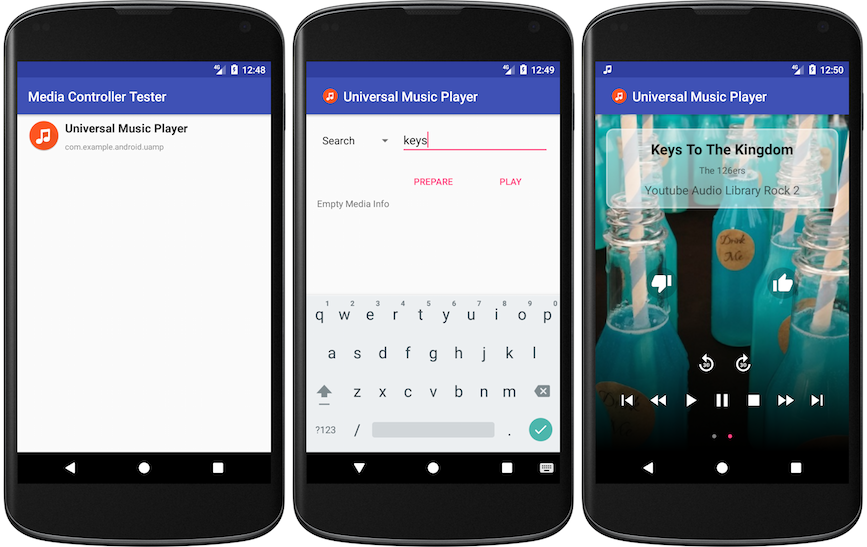
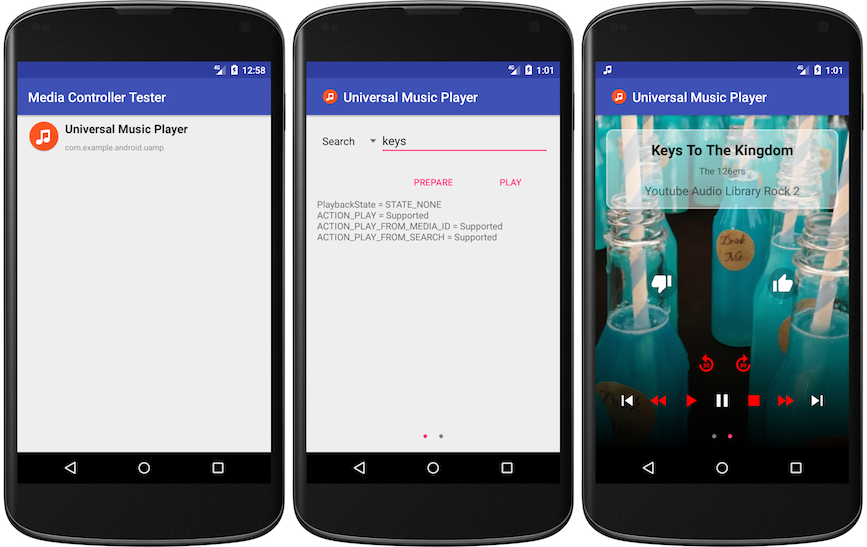
Add support for 'supported actions'.
The app now displays a list of prepare/play actions that are declared as
supported by the connected MediaSession, and colors the various controls
red when they corrospond to an action that's not declared as being
supported by the MediaSession.

diff --git a/mediacontroller/src/main/java/com/example/android/mediacontroller/MediaAppControllerActivity.java b/mediacontroller/src/main/java/com/example/android/mediacontroller/MediaAppControllerActivity.java
@@ -22,15 +22,18 @@ import android.content.Intent;
 import android.content.pm.PackageManager;
 import android.content.pm.ResolveInfo;
 import android.graphics.Bitmap;
+import android.graphics.Color;
 import android.graphics.drawable.BitmapDrawable;
 import android.graphics.drawable.Drawable;
 import android.net.Uri;
 import android.os.Bundle;
 import android.os.RemoteException;
+import android.support.annotation.NonNull;
 import android.support.annotation.Nullable;
 import android.support.annotation.StringRes;
 import android.support.design.widget.Snackbar;
 import android.support.design.widget.TabLayout;
+import android.support.v4.graphics.drawable.DrawableCompat;
 import android.support.v4.media.MediaBrowserCompat;
 import android.support.v4.media.MediaBrowserServiceCompat;
 import android.support.v4.media.MediaMetadataCompat;
@@ -43,16 +46,23 @@ import android.support.v7.app.AppCompatActivity;
 import android.support.v7.widget.Toolbar;
 import android.text.TextUtils;
 import android.util.Log;
+import android.util.SparseArray;
 import android.view.View;
 import android.view.ViewGroup;
 import android.widget.EditText;
+import android.widget.ImageButton;
 import android.widget.ImageView;
 import android.widget.Spinner;
 import android.widget.TextView;
 import android.widget.Toast;
 
+import java.util.ArrayList;
+import java.util.Collections;
+import java.util.Comparator;
 import java.util.HashMap;
+import java.util.HashSet;
 import java.util.List;
+import java.util.Locale;
 import java.util.Map;
 import java.util.Set;
 
@@ -79,7 +89,7 @@ public class MediaAppControllerActivity extends AppCompatActivity {
     private static final String PACKAGE_NAME_EXTRA =
             "com.example.android.mediacontroller.PACKAGE_NAME";
     private static final String SEARCH_EXTRA = "com.example.android.mediacontroller.SEARCH";
-    private static final String URI_EXTRA ="com.example.android.mediacontroller.URI";
+    private static final String URI_EXTRA = "com.example.android.mediacontroller.URI";
     private static final String MEDIA_ID_EXTRA = "com.example.android.mediacontroller.MEDIA_ID";
 
     // Hint to use the currently loaded app rather than specifying a package.
@@ -112,6 +122,8 @@ public class MediaAppControllerActivity extends AppCompatActivity {
     private TextView mMediaTitleView;
     private TextView mMediaArtistView;
     private TextView mMediaAlbumView;
+
+    private final SparseArray<ImageButton> mActionButtonMap = new SparseArray<>();
 
     /**
      * Builds an {@link Intent} to launch this Activity with a set of extras.
@@ -320,6 +332,7 @@ public class MediaAppControllerActivity extends AppCompatActivity {
         findViewById(R.id.action_prepare).setOnClickListener(preparePlayHandler);
         findViewById(R.id.action_play).setOnClickListener(preparePlayHandler);
 
+        mActionButtonMap.clear();
         final List<Action> mediaActions = Action.createActions(this);
         for (final Action action : mediaActions) {
             final View button = findViewById(action.getId());
@@ -332,6 +345,7 @@ public class MediaAppControllerActivity extends AppCompatActivity {
                     }
                 }
             });
+            mActionButtonMap.put(action.getId(), (ImageButton) button);
         }
     }
 
@@ -377,7 +391,47 @@ public class MediaAppControllerActivity extends AppCompatActivity {
             final Bitmap art = mediaMetadata.getBitmap(MediaMetadataCompat.METADATA_KEY_ALBUM_ART);
             mMediaAlbumArtView.setImageBitmap(art);
         }
-        return mediaInfos.toString();
+
+        final long actions = playbackState.getActions();
+
+        if ((actions & PlaybackStateCompat.ACTION_PREPARE_FROM_SEARCH) != 0) {
+            addMediaInfo(mediaInfos, "ACTION_PREPARE_FROM_SEARCH", "Supported");
+        }
+        if ((actions & PlaybackStateCompat.ACTION_PLAY_FROM_SEARCH) != 0) {
+            addMediaInfo(mediaInfos, "ACTION_PLAY_FROM_SEARCH", "Supported");
+        }
+
+        if ((actions & PlaybackStateCompat.ACTION_PREPARE_FROM_MEDIA_ID) != 0) {
+            addMediaInfo(mediaInfos, "ACTION_PREPARE_FROM_MEDIA_ID", "Supported");
+        }
+        if ((actions & PlaybackStateCompat.ACTION_PLAY_FROM_MEDIA_ID) != 0) {
+            addMediaInfo(mediaInfos, "ACTION_PLAY_FROM_MEDIA_ID", "Supported");
+        }
+
+        if ((actions & PlaybackStateCompat.ACTION_PREPARE_FROM_URI) != 0) {
+            addMediaInfo(mediaInfos, "ACTION_PREPARE_FROM_URI", "Supported");
+        }
+        if ((actions & PlaybackStateCompat.ACTION_PLAY_FROM_URI) != 0) {
+            addMediaInfo(mediaInfos, "ACTION_PLAY_FROM_URI", "Supported");
+        }
+
+        if ((actions & PlaybackStateCompat.ACTION_PREPARE) != 0) {
+            addMediaInfo(mediaInfos, "ACTION_PREPARE", "Supported");
+        }
+        if ((actions & PlaybackStateCompat.ACTION_PLAY) != 0) {
+            addMediaInfo(mediaInfos, "ACTION_PLAY", "Supported");
+        }
+
+        final StringBuilder stringBuilder = new StringBuilder();
+
+        final List<String> sortedKeys = new ArrayList<>();
+        sortedKeys.addAll(mediaInfos.keySet());
+        Collections.sort(sortedKeys, new KeyComparator());
+
+        for (final String key : sortedKeys) {
+            stringBuilder.append(key).append(" = ").append(mediaInfos.get(key)).append('\n');
+        }
+        return stringBuilder.toString();
     }
 
     private String playbackStateToName(final int playbackState) {
@@ -471,6 +525,23 @@ public class MediaAppControllerActivity extends AppCompatActivity {
     }
 
     private class MyConnectionCallback extends MediaBrowserCompat.ConnectionCallback {
+        private final SparseArray<Long> mActionViewIdMap;
+
+        MyConnectionCallback() {
+            mActionViewIdMap = new SparseArray<>();
+            mActionViewIdMap.put(R.id.action_skip_previous,
+                    PlaybackStateCompat.ACTION_SKIP_TO_PREVIOUS);
+            mActionViewIdMap.put(R.id.action_fast_rewind, PlaybackStateCompat.ACTION_REWIND);
+            mActionViewIdMap.put(R.id.action_resume, PlaybackStateCompat.ACTION_PLAY);
+            mActionViewIdMap.put(R.id.action_pause, PlaybackStateCompat.ACTION_PAUSE);
+            mActionViewIdMap.put(R.id.action_stop, PlaybackStateCompat.ACTION_STOP);
+            mActionViewIdMap.put(R.id.action_fast_forward, PlaybackStateCompat.ACTION_FAST_FORWARD);
+            mActionViewIdMap.put(R.id.action_skip_next, PlaybackStateCompat.ACTION_SKIP_TO_NEXT);
+
+            // They're the same action, but each of the buttons should be colored anyway.
+            mActionViewIdMap.put(R.id.action_skip_30s_backward, PlaybackStateCompat.ACTION_SEEK_TO);
+            mActionViewIdMap.put(R.id.action_skip_30s_forward, PlaybackStateCompat.ACTION_SEEK_TO);
+        }
 
         @Override
         public void onConnected() {
@@ -479,25 +550,36 @@ public class MediaAppControllerActivity extends AppCompatActivity {
                         MediaAppControllerActivity.this,
                         mBrowser.getSessionToken());
 
-                mController.registerCallback(new MediaControllerCompat.Callback() {
-                    @Override
-                    public void onPlaybackStateChanged(PlaybackStateCompat playbackState) {
-                        onUpdate();
-                    }
+                final MediaControllerCompat.Callback callback =
+                        new MediaControllerCompat.Callback() {
 
-                    @Override
-                    public void onMetadataChanged(MediaMetadataCompat metadata) {
-                        onUpdate();
-                    }
+                            @Override
+                            public void onPlaybackStateChanged(PlaybackStateCompat playbackState) {
+                                onUpdate();
 
-                    private void onUpdate() {
-                        String newText = "PlaybackState changed!";
-                        String mediaInfoStr = fetchMediaInfo();
-                        if (mediaInfoStr != null) {
-                            mMediaInfoText.setText(newText + "\n" + mediaInfoStr);
-                        }
-                    }
-                });
+                                if (playbackState != null) {
+                                    showActions(playbackState.getActions());
+                                }
+                            }
+
+                            @Override
+                            public void onMetadataChanged(MediaMetadataCompat metadata) {
+                                onUpdate();
+                            }
+
+                            private void onUpdate() {
+                                String mediaInfoStr = fetchMediaInfo();
+                                if (mediaInfoStr != null) {
+                                    mMediaInfoText.setText(mediaInfoStr);
+                                }
+                            }
+                        };
+                mController.registerCallback(callback);
+
+                // Force update on connect
+                callback.onPlaybackStateChanged(mController.getPlaybackState());
+                callback.onMetadataChanged(mController.getMetadata());
+
                 Log.d(TAG, "MediaControllerCompat created");
             } catch (RemoteException remoteException) {
                 Log.e(TAG, "Failed to connect with session token: " + remoteException);
@@ -527,6 +609,61 @@ public class MediaAppControllerActivity extends AppCompatActivity {
                 }
             });
             snackbar.show();
+        }
+
+        /**
+         * This updates the buttons on the controller view to show actions that
+         * aren't included in the declared supported actions in red to more easily
+         * detect potential bugs.
+         *
+         * @param actions The mask of currently supported actions from
+         *                {@see PlaybackStateCompat.getActions()}.
+         */
+        private void showActions(@PlaybackStateCompat.Actions long actions) {
+            final int count = mActionViewIdMap.size();
+            for (int i = 0; i < count; ++i) {
+                final int viewId = mActionViewIdMap.keyAt(i);
+                final long action = mActionViewIdMap.valueAt(i);
+
+                final ImageButton button = mActionButtonMap.get(viewId);
+                DrawableCompat.setTint(button.getDrawable(), getTint(actions, action));
+            }
+        }
+
+        private int getTint(@PlaybackStateCompat.Actions long actions,
+                            @PlaybackStateCompat.Actions long checkAction) {
+            return ((actions & checkAction) != 0)
+                    ? Color.WHITE
+                    : Color.RED;
+        }
+    }
+
+    private static class KeyComparator implements Comparator<String> {
+        private final Set<String> mCapKeys = new HashSet<>();
+
+        @Override
+        public int compare(String leftSide, String rightSide) {
+            final boolean leftCaps = isAllCaps(leftSide);
+            final boolean rightCaps = isAllCaps(rightSide);
+
+            if (leftCaps && rightCaps) {
+                return leftSide.compareTo(rightSide);
+            } else if (leftCaps) {
+                return 1;
+            } else if (rightCaps) {
+                return -1;
+            }
+            return leftSide.compareTo(rightSide);
+        }
+
+        private boolean isAllCaps(@NonNull final String stringToCheck) {
+            if (mCapKeys.contains(stringToCheck)) {
+                return true;
+            } else if (stringToCheck.equals(stringToCheck.toUpperCase(Locale.US))) {
+                mCapKeys.add(stringToCheck);
+                return true;
+            }
+            return false;
         }
     }
 }

diff --git a/README.md b/README.md
@@ -55,6 +55,16 @@ Another example with UAMP is to perform a search with the term "jazz?" one would
 
 ```adb shell am start -n com.example.android.mediacontroller/.MediaAppControllerActivity --es com.example.android.mediacontroller.PACKAGE_NAME "com.example.android.uamp" --es com.example.android.mediacontroller.SEARCH "jazz?"```
 
+Verification
+============
+
+This tool displays the supported actions as reported by the MediaSession in the call to
+[MediaSessionCompat.setPlaybackState()](https://developer.android.com/reference/android/support/v4/media/session/MediaSessionCompat.html#setPlaybackState(android.support.v4.media.session.PlaybackStateCompat))
+as a list of prepare and play actions on the main screen, and by coloring the buttons for actions
+that aren't declared as supported red on the controller screen.
+
+See the screenshots below for examples.
+
 Screenshots
 ===========
 
@@ -62,7 +72,7 @@ Screenshots
 
 
 License
--------
+=======
 
 Copyright 2017 Google Inc. All rights reserved.
 
